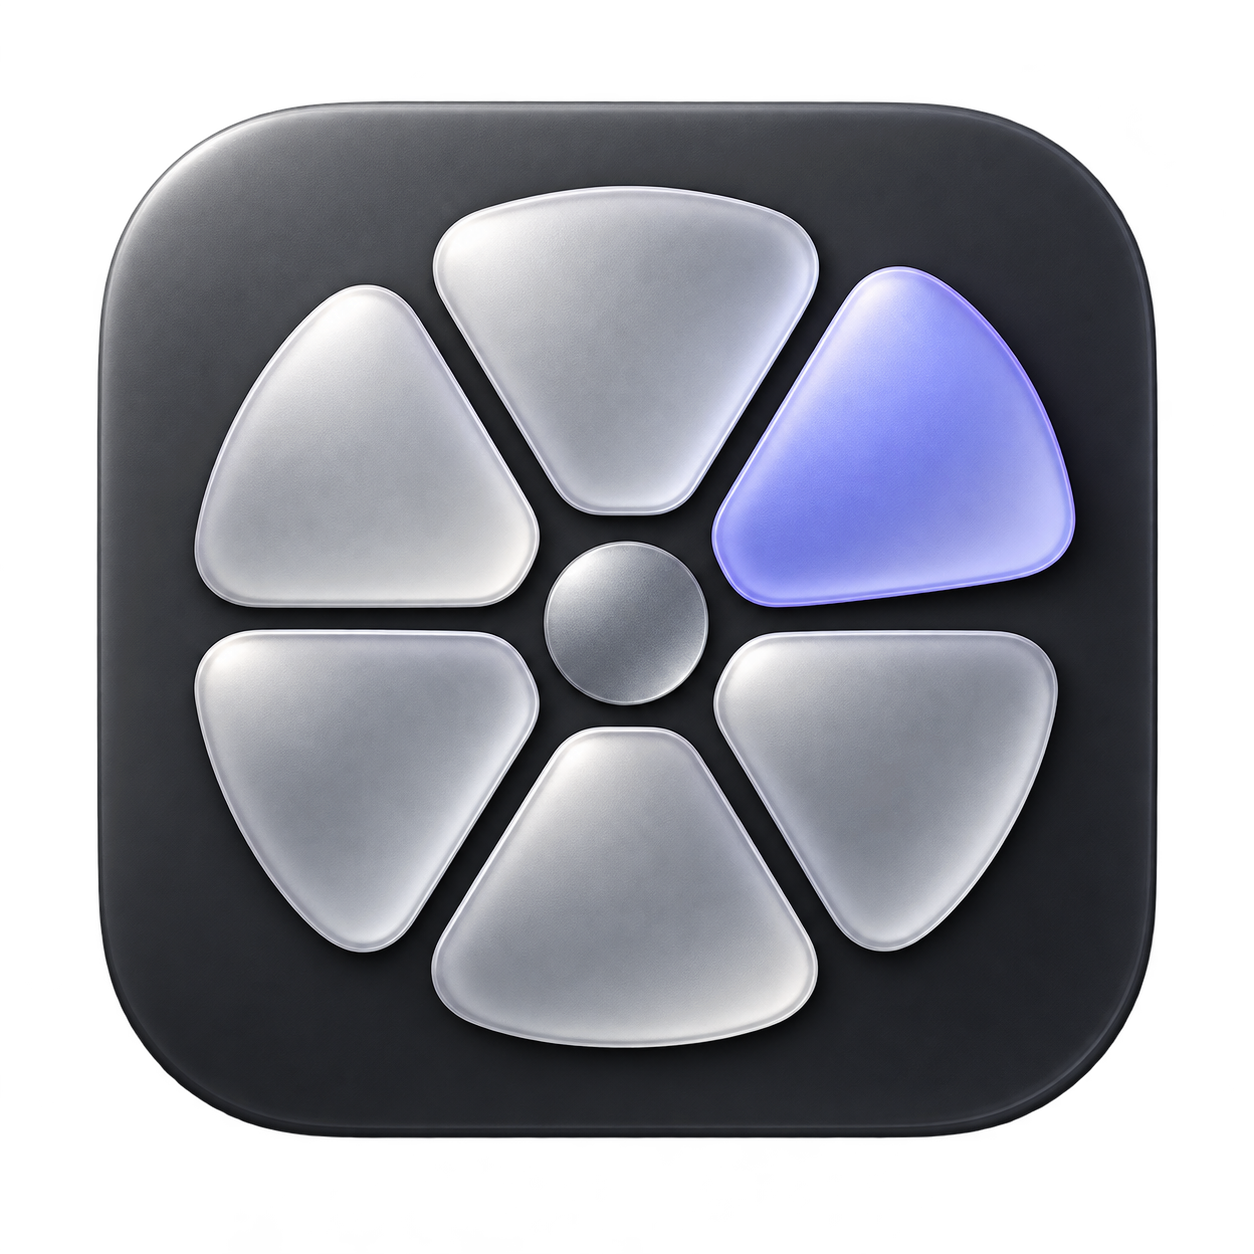
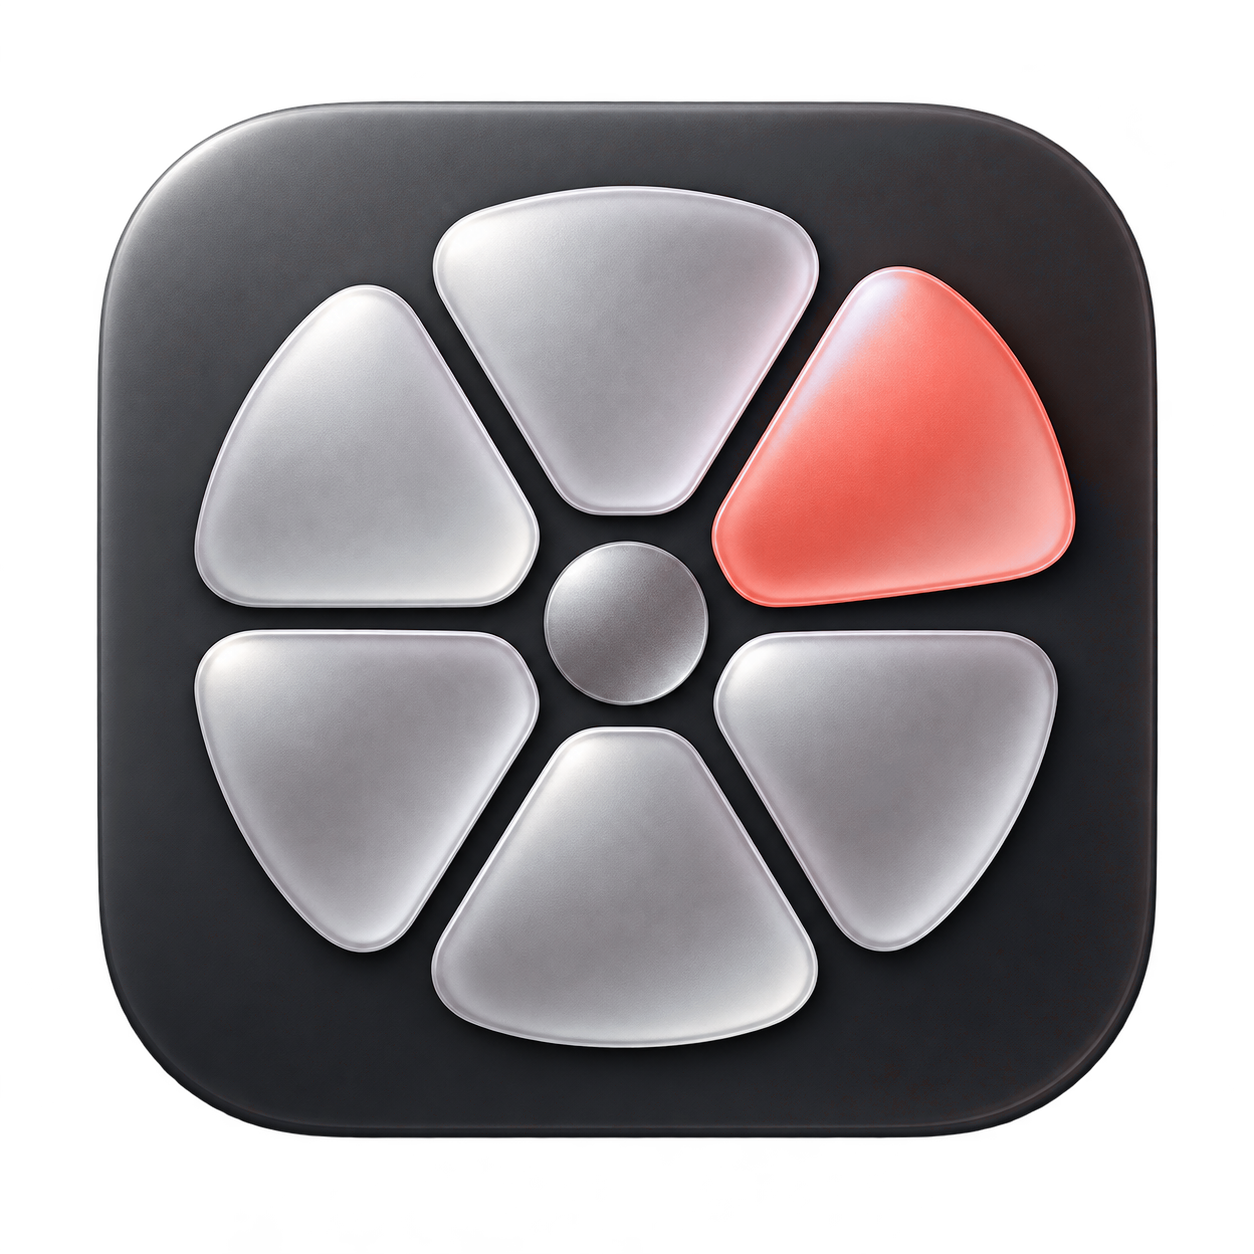
feat(brand): adopt charcoal, white and coral palette
Default wheel accent moves from lavender to coral (#FF6F61), migrating
users still on the old default. The image editor background defaults to
charcoal and the app icon's accent segment is recoloured to coral.

Changed region(s): [[0.5598, 0.2177, 0.8708, 0.4976]]

diff --git a/Sources/Tangerine/Settings.swift b/Sources/Tangerine/Settings.swift
@@ -28,7 +28,7 @@ final class Settings: ObservableObject {
     @Published var accentHex: String { didSet { UserDefaults.standard.set(accentHex, forKey: "accentHex") } }
     var accent: Color { Color(nsColor: accentColor) }
     var accentColor: NSColor {
-        let n = UInt32(accentHex, radix: 16) ?? 0x7C83F5
+        let n = UInt32(accentHex, radix: 16) ?? 0xFF6F61
         return NSColor(srgbRed: CGFloat((n >> 16) & 255) / 255, green: CGFloat((n >> 8) & 255) / 255, blue: CGFloat(n & 255) / 255, alpha: 1)
     }
     func setAccent(_ color: Color) {
@@ -42,7 +42,8 @@ final class Settings: ObservableObject {
     }
     init() {
         let d = UserDefaults.standard
-        accentHex = d.string(forKey: "accentHex") ?? "7C83F5"
+        // The previous lavender default migrates to coral; customised accents are kept.
+        accentHex = d.string(forKey: "accentHex").flatMap { $0 == "7C83F5" ? nil : $0 } ?? "FF6F61"
         enabled = d.object(forKey: "enabled") as? Bool ?? true
         conversion = Binding(rawValue: d.string(forKey: "conversion") ?? "") ?? .option
         utilities = Binding(rawValue: d.string(forKey: "utilities") ?? "") ?? .shift

diff --git a/Sources/Tangerine/ImageEditor.swift b/Sources/Tangerine/ImageEditor.swift
@@ -12,7 +12,7 @@ struct ImageEditor: View {
     @State private var padding: Double = 60
     @State private var radius: Double = 24
     @State private var shadow: Double = 20
-    @State private var color: Color = Color(red: 0.25, green: 0.28, blue: 0.42)
+    @State private var color: Color = Color(red: 0.118, green: 0.118, blue: 0.129)
     @State private var gradient = true
     @ObservedObject var settings = Settings.shared
     var body: some View {

diff --git a/assets/branding/README.md b/assets/branding/README.md
@@ -1,6 +1,6 @@
 # Tangerine identity
 
-`tangerine-icon.png` is the transparent master artwork, generated with the built-in image generation tool. It uses rounded citrus segments, graphite/pearl glass, and a muted lavender accent. The menu bar mark is a monochrome template drawn in `Sources/Tangerine/Brand.swift`, allowing macOS to adapt it to light and dark menu bars. The wheel accent remains configurable independently of the fixed application artwork.
+`tangerine-icon.png` is the transparent master artwork, generated with the built-in image generation tool. It uses rounded citrus segments, graphite/pearl glass, and a single coral (`#FF6F61`) accent segment, matching the charcoal, warm white and coral palette. The coral segment was recoloured from the original lavender generation by hue-shifting only the saturated accent pixels. The menu bar mark is a monochrome template drawn in `Sources/Tangerine/Brand.swift`, allowing macOS to adapt it to light and dark menu bars. The wheel accent defaults to the same coral and remains configurable independently of the fixed application artwork.
 
 `scripts/build-icon.sh` creates the standard 16–1024 px macOS icon representations and packages `build/Tangerine.icns`. `scripts/build-app.sh` includes that icon and declares it in Info.plist. Generated iconsets and bundles stay outside Git.
 
